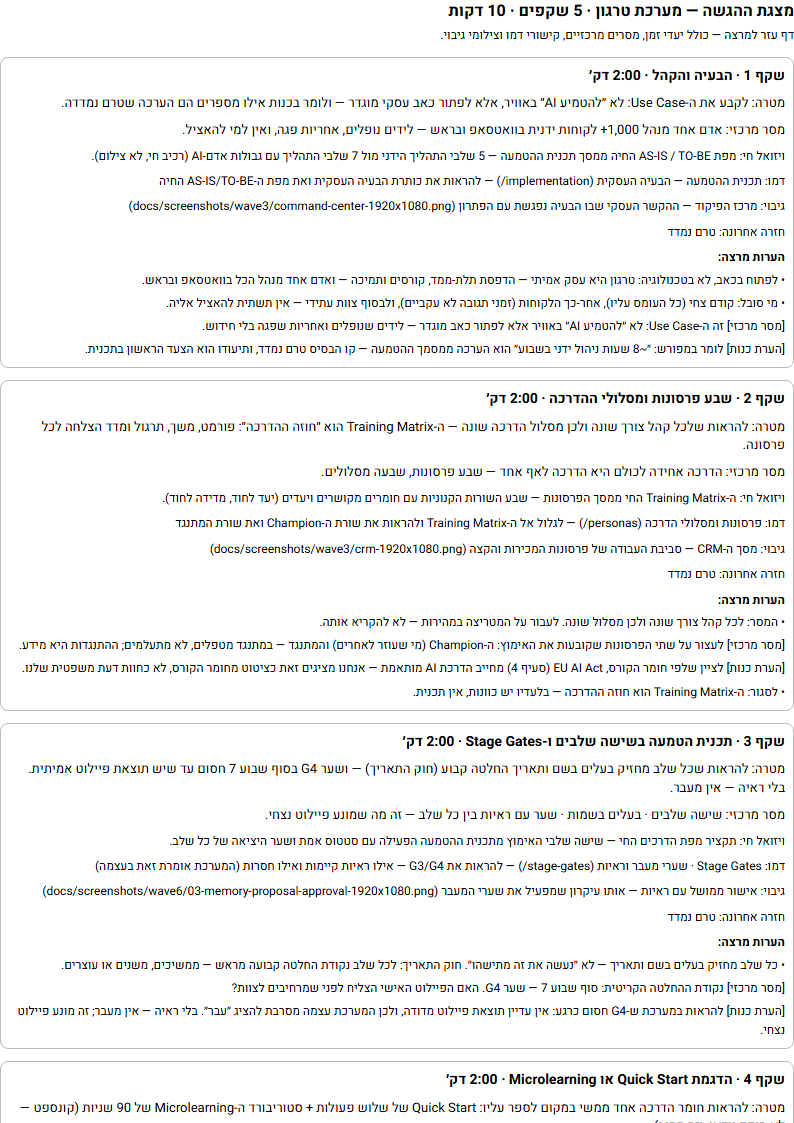
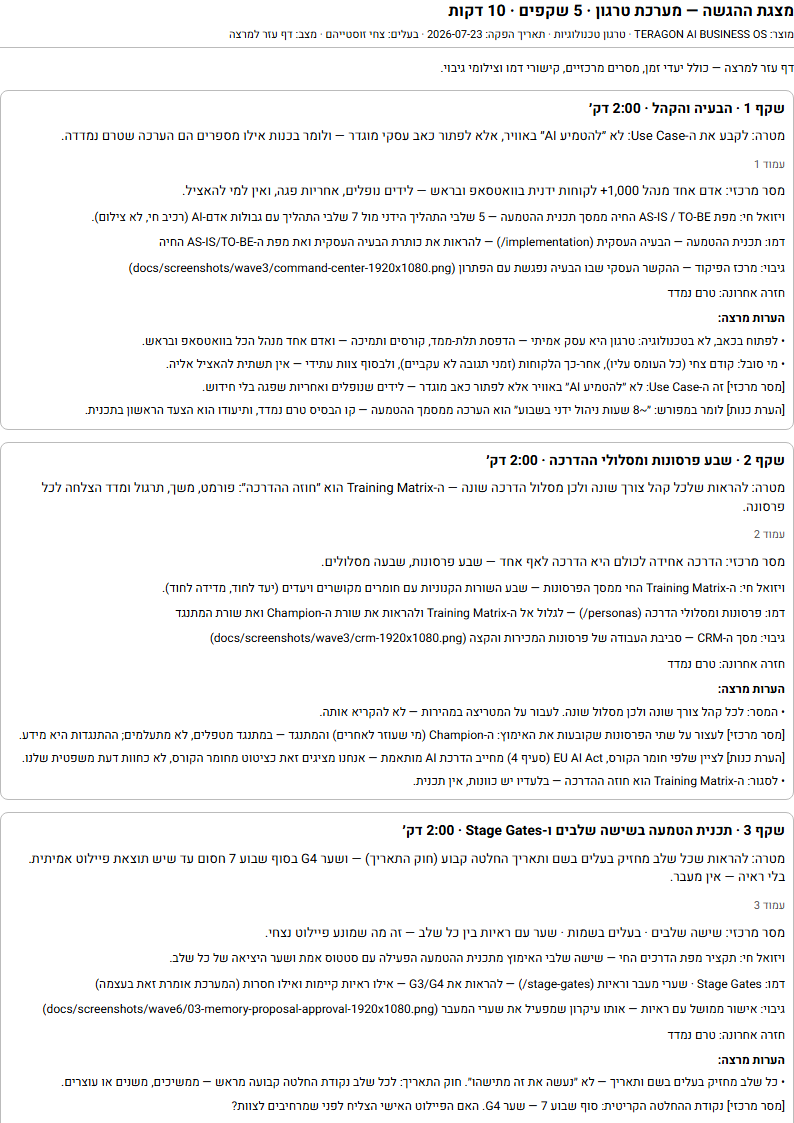
Wave 8 pre-wave: P-1/P-2 print gaps FIXED (page counters + product/version/date/owner headers, re-verified 3/3+10/10) + baseline + 13 collections (IDB v6) + W8 queue — gate green

Changed region(s): [[0.0302, 0.0, 1.0, 1.0], [0.2116, 0.4987, 0.2418, 0.5298]]

diff --git a/src/modules/presentation/PresentationPage.tsx b/src/modules/presentation/PresentationPage.tsx
@@ -69,6 +69,12 @@ const PRINT_CSS = `
   .pres-handout-section { break-inside: avoid; }
 }
 @page { size: A4; margin: 14mm; }
+
+@page { size: A4; margin: 14mm; }
+.pres-handout-root { counter-reset: prespage; direction: rtl; }
+.pres-handout-section { counter-increment: prespage; break-after: page; }
+.pres-handout-section .pres-handout-footer::after { content: "עמוד " counter(prespage); color: #555; font-size: 11px; }
+.pres-handout-header { font-size: 11px; color: #333; border-block-end: 1px solid #ccc; padding-block-end: 4px; margin-block-end: 8px; }
 `;
 
 export default function PresentationPage(): ReactElement {
@@ -833,6 +839,10 @@ function HandoutView({
         <b style={{ fontSize: "var(--os-text-lg)", color: "var(--os-text)" }}>
           מצגת ההגשה — מערכת טרגון · 5 שקפים · 10 דקות
         </b>
+        <span className="pres-handout-header">
+          מוצר: TERAGON AI BUSINESS OS · טרגון טכנולוגיות · תאריך הפקה:{" "}
+          {new Date().toISOString().slice(0, 10)} · בעלים: צחי זוסטייהם · מצב: דף עזר למרצה
+        </span>
         <span style={{ color: "var(--os-text-2)", fontSize: "var(--os-text-xs)" }}>
           דף עזר למרצה — כולל יעדי זמן, מסרים מרכזיים, קישורי דמו וצילומי גיבוי.
         </span>
@@ -860,6 +870,7 @@ function HandoutView({
             <span style={{ color: "var(--os-text-2)", fontSize: "var(--os-text-sm)" }}>
               מטרה: {s.objectiveHe}
             </span>
+            <span className="pres-handout-footer" aria-hidden="true" />
             <span style={{ color: "var(--os-text-2)", fontSize: "var(--os-text-sm)" }}>
               מסר מרכזי: {s.mainMessageHe}
             </span>

diff --git a/src/modules/quick-start/QuickStartPage.tsx b/src/modules/quick-start/QuickStartPage.tsx
@@ -30,9 +30,25 @@ const PRINT_CSS = `
   .qs-print-root { position: absolute; inset-inline-start: 0; inset-block-start: 0; inline-size: 100%; }
   .qs-no-print { display: none !important; }
   .qs-print-root { color: #000; background: #fff; }
+  .qs-print-header { display: block !important; }
 }
 @page { size: A4; margin: 14mm; }
+.qs-print-root { counter-reset: qspage; direction: rtl; }
+.qs-print-section { counter-increment: qspage; }
+.qs-print-section .qs-print-footer::after { content: "עמוד " counter(qspage); color: #555; font-size: 11px; }
+.qs-print-header { display: none; font-size: 11px; color: #333; border-block-end: 1px solid #ccc; padding-block-end: 4px; margin-block-end: 8px; }
 `;
+
+/** print-only metadata header (P-2 fix): product, version, date, owner, approval */
+function QsPrintHeader(): ReactElement {
+  return (
+    <div className="qs-print-header">
+      מוצר: TERAGON AI BUSINESS OS · טרגון טכנולוגיות · חומר tm-3 "התחלה מהירה" · תאריך הפקה:{" "}
+      {new Date().toISOString().slice(0, 10)} · בעלים: צחי זוסטייהם · מצב אישור: לפי רשומת החומר
+      במרכז ההדרכה
+    </div>
+  );
+}
 
 export interface QuickStartPageProps {
   /** presentation-view prop — start in full-screen-style presentation mode */
@@ -45,6 +61,7 @@ export default function QuickStartPage({ presentation = false }: QuickStartPageP
   return (
     <div className="qs-print-root" style={{ display: "grid", gap: "var(--os-space-6)" }}>
       <style>{PRINT_CSS}</style>
+      <QsPrintHeader />
       <PageRail>
         <QuickStartRail />
       </PageRail>

diff --git a/src/repositories/seed/index.ts b/src/repositories/seed/index.ts
@@ -133,6 +133,20 @@ export const SEED: Record<CollectionKey, readonly BaseEntity[]> = {
   demoSteps: [],
   qualityValidations: [],
   objections: [],
+  // Wave 8 — created by workflows, never seeded
+  reportDefinitions: [],
+  reportRuns: [],
+  metricAlerts: [],
+  analyticsViews: [],
+  governancePolicies: [],
+  governancePolicyVersions: [],
+  governanceRisks: [],
+  governanceIncidents: [],
+  governanceReviews: [],
+  promptVersions: [],
+  accessChangeRequests: [],
+  accessReviews: [],
+  healthSnapshots: [],
   meta: [],
   aiRecommendations: AI_RECOMMENDATIONS,
   evidence: EVIDENCE,

diff --git a/src/repositories/collections.ts b/src/repositories/collections.ts
@@ -97,6 +97,22 @@ export const COLLECTIONS = [
   "demoSteps",
   "qualityValidations",
   "objections",
+  // Wave 8 — analytics
+  "reportDefinitions",
+  "reportRuns",
+  "metricAlerts",
+  "analyticsViews",
+  // Wave 8 — governance
+  "governancePolicies",
+  "governancePolicyVersions",
+  "governanceRisks",
+  "governanceIncidents",
+  "governanceReviews",
+  "promptVersions",
+  // Wave 8 — administration + health
+  "accessChangeRequests",
+  "accessReviews",
+  "healthSnapshots",
   // Wave 6 — schema meta (migration bookkeeping)
   "meta",
 ] as const;

diff --git a/src/repositories/IndexedDBRepository.ts b/src/repositories/IndexedDBRepository.ts
@@ -7,7 +7,7 @@ import { COLLECTIONS } from "./collections";
 
 export const IDB_NAME = "teragon-os";
 // v2: + "notifications" object store (Wave 2 notification center)
-export const IDB_VERSION = 5; // v5: + adoption/submission/presentation collections (Wave 7)
+export const IDB_VERSION = 6; // v6: + analytics/governance/administration/health collections (Wave 8)
 
 let dbPromise: Promise<IDBPDatabase> | null = null;
 

diff --git a/docs/WAVE_8_BASELINE.md b/docs/WAVE_8_BASELINE.md
@@ -1,0 +1,14 @@
+# WAVE 8 — BASELINE (Pre-Wave)
+
+תאריך: 23.07.2026 10:00 · HEAD בכניסה: **8236185** · Working tree: נקי · ענף בטיחות: `backup/pre-wave8-20260723-1000`
+
+## שערי Wave 7 על ה-baseline (ריצות אמת)
+oxlint 0/0 · tsc 0 · typecheck:tests 0 · Vitest 1342/1342 · build ✓ (e2e 227/227 + scanner CLEAN בסגירת Wave 7, אותו HEAD).
+
+## תיקון P-1/P-2 (תיקון אמיתי, לא סיווג מחדש)
+- **P-1 (מוני עמודים)**: נוספו CSS counters ("עמוד N") ל-Quick-Start print (`qs-print-section`/`qs-print-footer`) ול-handout המצגת (`pres-handout-section`/`pres-handout-footer`, break-after: page).
+- **P-2 (כותרת מוצר/גרסה/תאריך/בעלים)**: נוסף header להדפסה בשני המסמכים (מוצר · חברה · תאריך הפקה · בעלים צחי זוסטייהם · מצב), בתבנית של submission printView.
+- אימות מחדש: print QA suite 3/3 · w7f presentation suite 10/10 · unit 1342/1342 · build ✓. W8-F יוסיף אכיפה מפורשת לבדיקות ה-print על שני המסמכים.
+
+## תשתית Lead לגל
++13 collections חדשים (analytics/governance/administration/health) · IDB v6. מלאי מפורט (metrics/governance/permissions/health) — מסמכי ה-inventory של Phase 8.0 נכתבים על ידי סוכני ה-workstreams בתחילת עבודתם.

diff --git a/docs/INTEGRATION_QUEUE_W8.md b/docs/INTEGRATION_QUEUE_W8.md
@@ -1,0 +1,5 @@
+# INTEGRATION QUEUE — WAVE 8
+קבצים משותפים (Integration Lead בלבד): כמו תור W7 + src/presentation/**, src/validation/**, src/modules של גלים קודמים.
+| # | Workstream | קובץ | שינוי מבוקש | סטטוס |
+|---|-----------|------|--------------|-------|
+| — | — | — | — | — |
